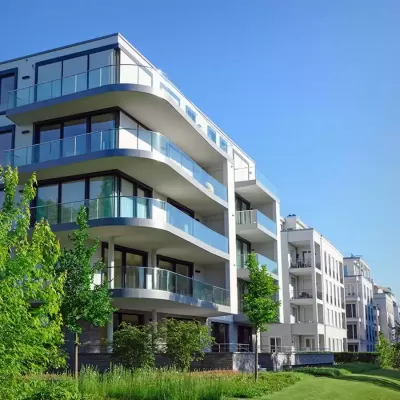
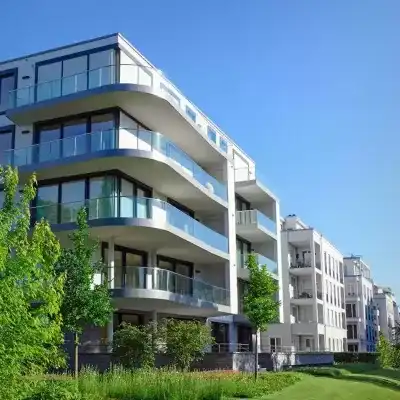
changes images size

diff --git a/src/screens/home/components/featuredSection.jsx b/src/screens/home/components/featuredSection.jsx
@@ -1,11 +1,11 @@
 import React, { Component } from "react";
 import { Link } from "react-router-dom";
 
-import ready from "../../../images/ready.jpg";
-import townships from "../../../images/hotels.jpg";
-import luxury from "../../../images/farmhouse.jpg";
-import affordable from "../../../images/affordable.jpg";
-import hour from "../../../images/hour.jpg";
+import ready from "../../../images/ready.webp";
+import townships from "../../../images/hotels.webp";
+import luxury from "../../../images/farmhouse.webp";
+import affordable from "../../../images/affordable.webp";
+import hour from "../../../images/hour.webp";
 
 class FeaturedSection extends Component {
   state = {};

diff --git a/src/App.css b/src/App.css
@@ -26,7 +26,7 @@ header:not(.home-page) {
 }
 .home {
   height: 60vh;
-  background-image: url(./images/defaultBanner.jpg);
+  background-image: url(./images/defaultBanner.webp);
   background-size: cover;
   padding-top: 80px;
   color: white;
